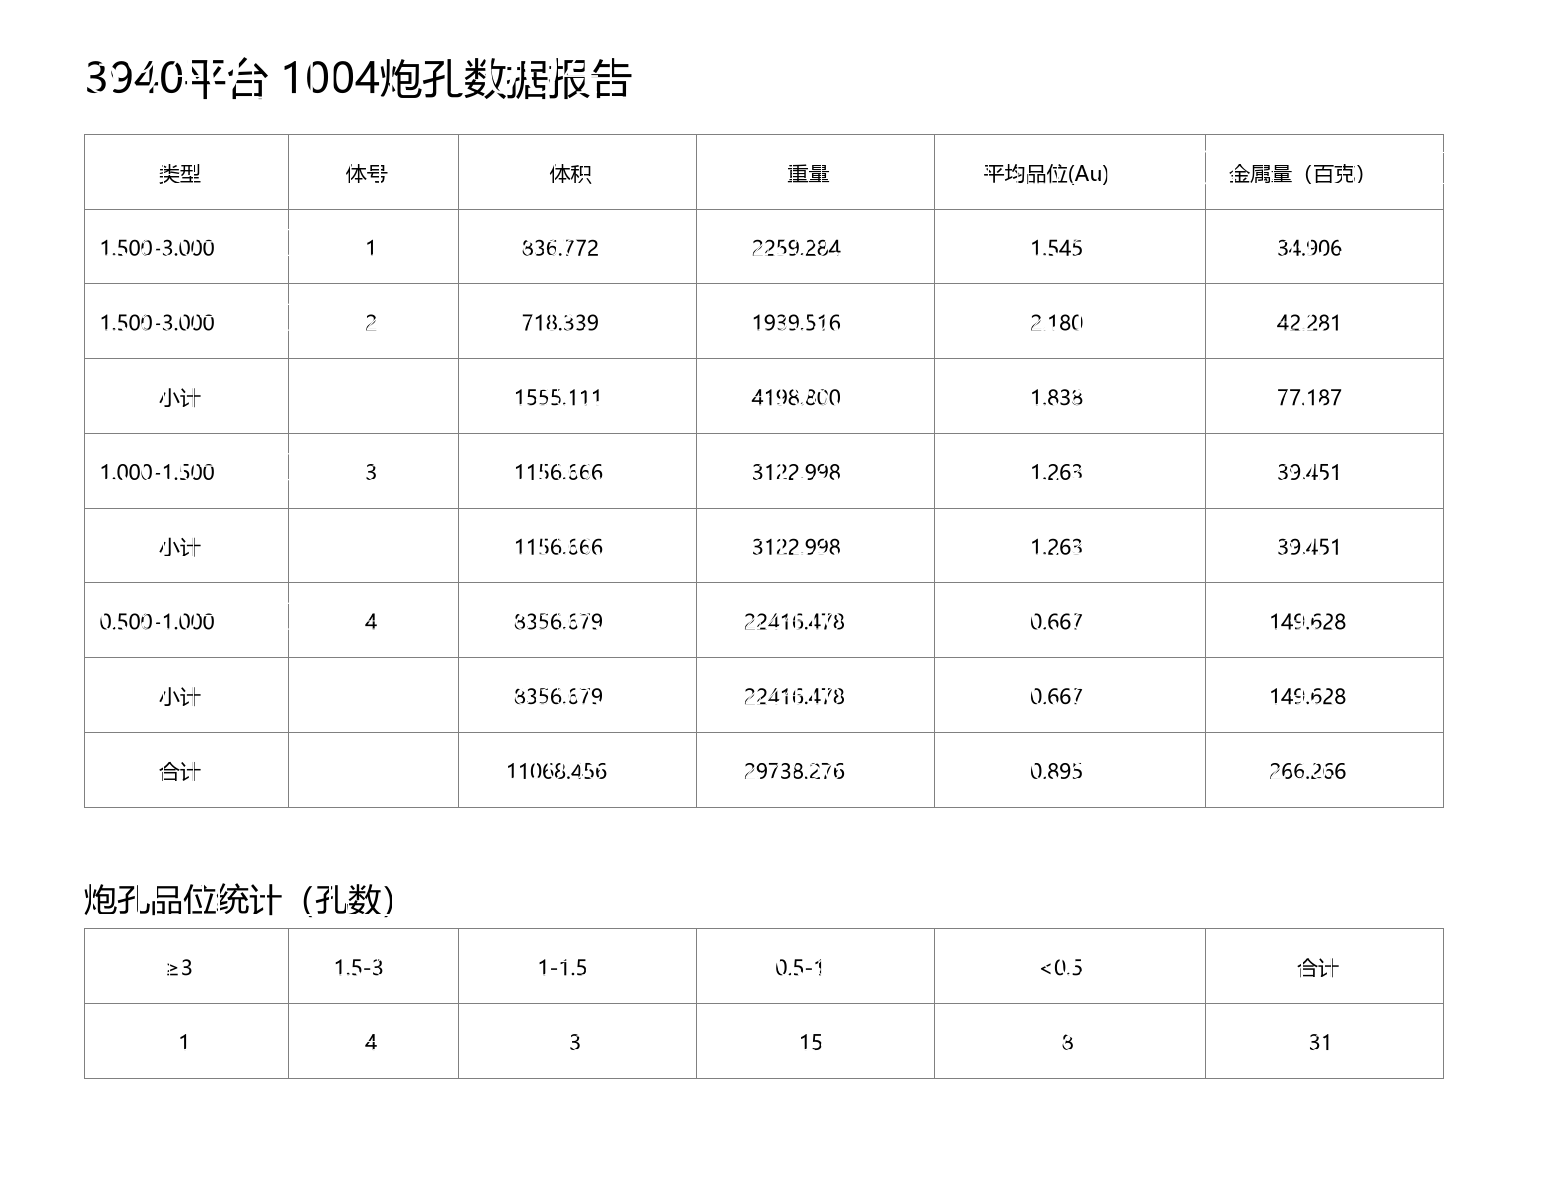
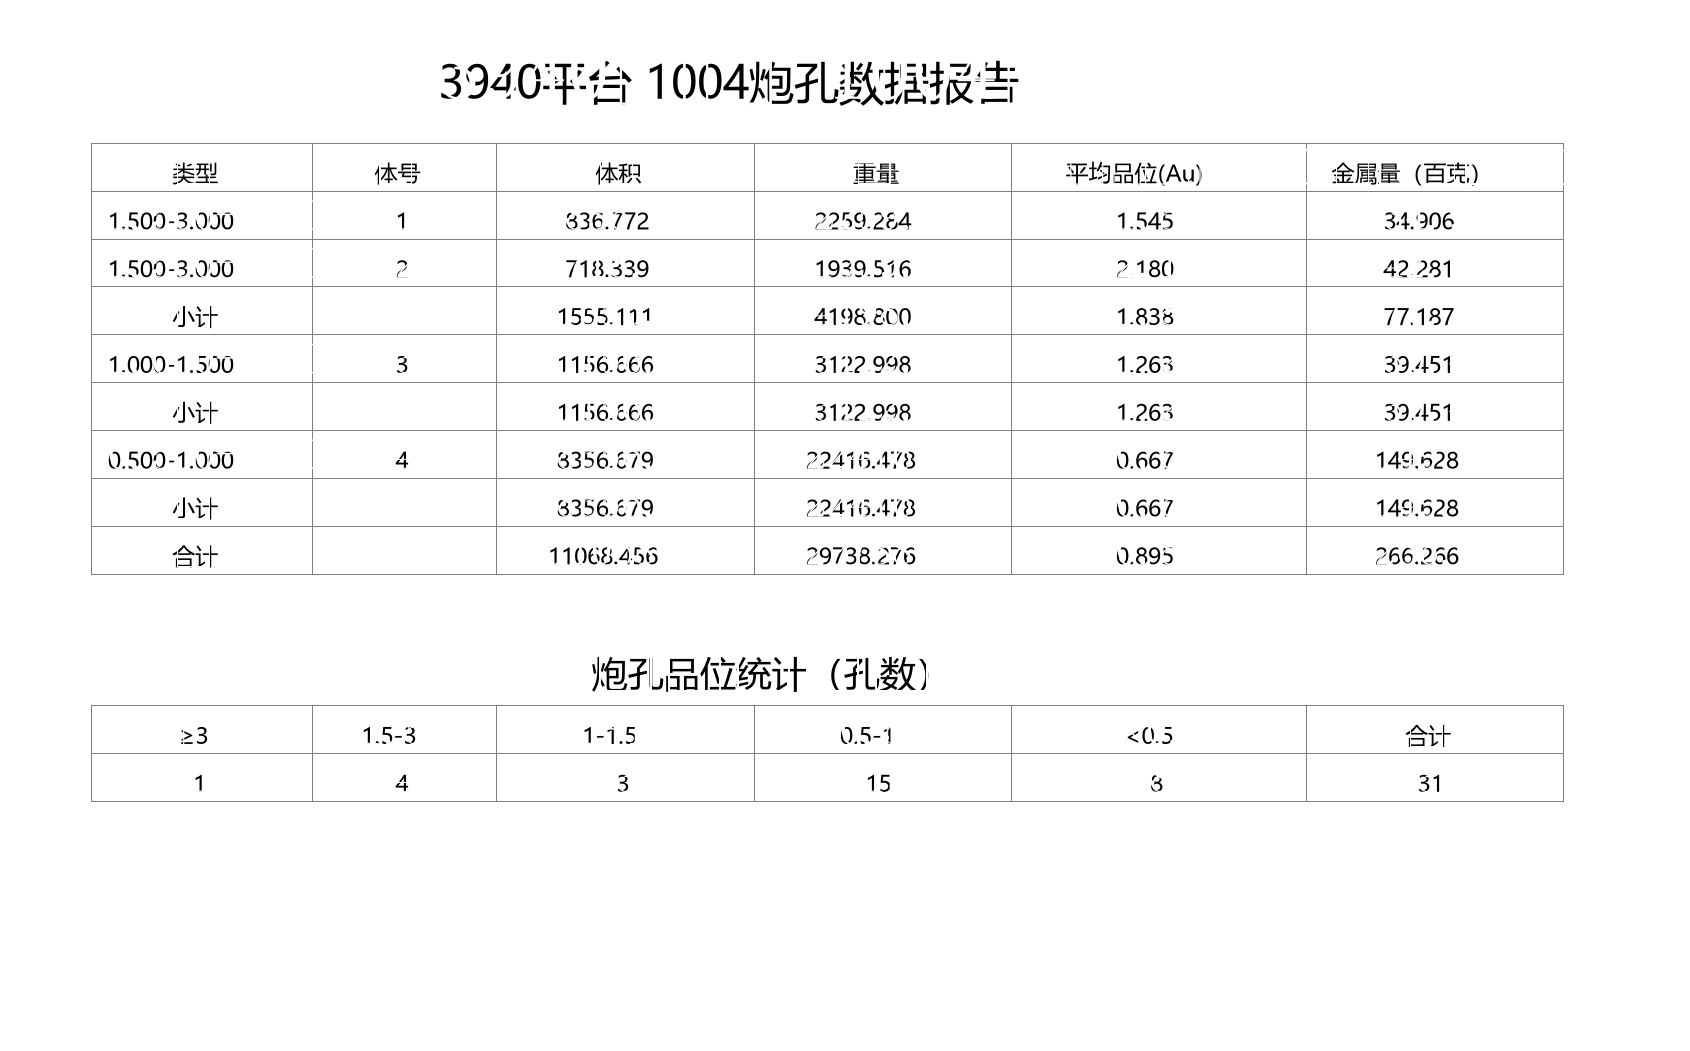
v1.7.1: report table in Excel style (thin borders, centered, compact rows)

diff --git a/3DMine二次圈矿工具_初步原型/core/deliver.py b/3DMine二次圈矿工具_初步原型/core/deliver.py
@@ -110,7 +110,7 @@ def write_report_xlsx(blocks, meta, path: Path, holes=None) -> None:
     for i, h in enumerate(head, 1):
         c = ws.cell(row=2, column=i, value=h)
         c.font = Font(bold=True)
-        c.alignment = Alignment(horizontal="center")
+        c.alignment = Alignment(horizontal="center", vertical="center")
         # 用户 2026-10-15：报告里**不要单元格底纹**（原来是浅蓝/浅灰）
         c.fill = PatternFill(fill_type=None)
 
@@ -179,6 +179,8 @@ def write_report_xlsx(blocks, meta, path: Path, holes=None) -> None:
     for row in ws.iter_rows(min_row=2, max_row=last_row, min_col=1, max_col=6):
         for cell in row:
             cell.border = border
+            # 用户 2026-10-19：报告表按 Excel 默认风格，所有文字居中
+            cell.alignment = Alignment(horizontal="center", vertical="center")
             if cell.column >= 3:
                 cell.number_format = "0.000"
     for col, w in zip("ABCDEF", (14, 8, 12, 12, 14, 14)):
@@ -387,7 +389,7 @@ BLANK_NOTE = "（缺工程，待取样验证后再进行施工）"
 
 # 报告表（矢量）：列宽合计 40 m，与原来贴图宽度一致；行高/字高按图面比例定
 TABLE_COL_W = (6.0, 5.0, 7.0, 7.0, 8.0, 7.0)
-TABLE_ROW_H = 2.2
+TABLE_ROW_H = 1.3
 TABLE_TEXT_H = 0.8
 TABLE_TITLE_H = 1.6
 
@@ -448,11 +450,13 @@ def _draw_report_table(msp, x0, y_top, rows, stat_rows, title):
         s = str(s)
         w = _text_width(s, h)
         msp.add_text(s, dxfattribs=dict(attrib, height=h)).set_placement(
-            (cx - w / 2.0, cy - h * 0.36))
+            (cx - w / 2.0, cy - h * 0.5))
 
-    # 标题
+    # 标题（Excel 默认风格：跨整表居中）
     msp.add_text(title, dxfattribs=dict(attrib, height=TABLE_TITLE_H)
-                 ).set_placement((x0, y_top - TABLE_TITLE_H))
+                 ).set_placement(
+                     (x0 + (total_w - _text_width(title, TABLE_TITLE_H)) / 2.0,
+                      y_top - TABLE_TITLE_H))
     y = y_top - TABLE_TITLE_H - 1.2
 
     # 主表
@@ -460,10 +464,10 @@ def _draw_report_table(msp, x0, y_top, rows, stat_rows, title):
     for i in range(n + 1):
         yy = y - i * TABLE_ROW_H
         msp.add_line((x0, yy), (x0 + total_w, yy),
-                     dxfattribs={"layer": "0", "color": 8, "lineweight": 25})
+                     dxfattribs={"layer": "0", "color": 8, "lineweight": 13})
     for xx in xs:
         msp.add_line((xx, y), (xx, y - n * TABLE_ROW_H),
-                     dxfattribs={"layer": "0", "color": 8, "lineweight": 25})
+                     dxfattribs={"layer": "0", "color": 8, "lineweight": 13})
     for i, row in enumerate(rows):
         cy = y - (i + 0.5) * TABLE_ROW_H
         h = TABLE_TEXT_H
@@ -476,18 +480,21 @@ def _draw_report_table(msp, x0, y_top, rows, stat_rows, title):
     if stat_rows:
         # 炮孔品位统计：小标题 + 两行（列宽与主表一致）
         y -= 1.8
-        msp.add_text("炮孔品位统计（孔数）",
-                     dxfattribs=dict(attrib, height=TABLE_TITLE_H * 0.8)
-                     ).set_placement((x0, y - TABLE_TITLE_H * 0.8))
+        sub = "炮孔品位统计（孔数）"
+        sub_h = TABLE_TITLE_H * 0.8
+        msp.add_text(sub, dxfattribs=dict(attrib, height=sub_h)
+                     ).set_placement(
+                         (x0 + (total_w - _text_width(sub, sub_h)) / 2.0,
+                          y - sub_h))
         y -= TABLE_TITLE_H * 0.8 + 0.5
         m = len(stat_rows)
         for i in range(m + 1):
             yy = y - i * TABLE_ROW_H
             msp.add_line((x0, yy), (x0 + total_w, yy),
-                         dxfattribs={"layer": "0", "color": 8, "lineweight": 25})
+                         dxfattribs={"layer": "0", "color": 8, "lineweight": 13})
         for xx in xs:
             msp.add_line((xx, y), (xx, y - m * TABLE_ROW_H),
-                         dxfattribs={"layer": "0", "color": 8, "lineweight": 25})
+                         dxfattribs={"layer": "0", "color": 8, "lineweight": 13})
         for i, row in enumerate(stat_rows):
             cy = y - (i + 0.5) * TABLE_ROW_H
             for j, val in enumerate(row):

diff --git a/3DMine二次圈矿工具_初步原型/_probe/publish_release.py b/3DMine二次圈矿工具_初步原型/_probe/publish_release.py
@@ -75,7 +75,8 @@ def main() -> int:
              "v1.4": "v1.4 —— 单日并入时一并复制二次圈矿矿块图",
              "v1.5": "v1.5 —— 未闭合 .3ds 也能出图 + 交付加 .xls 与分表",
              "v1.6": "v1.6 —— DXF→DWG 提速（accoreconsole，约 2 秒）",
-             "v1.7": "v1.7 —— 小片归属 / 标注引线从块中心 / 手机端矢量表格"}.get(
+             "v1.7": "v1.7 —— 小片归属 / 标注引线从块中心 / 手机端矢量表格",
+             "v1.7.1": "v1.7.1 —— 报告表改 Excel 默认风格：细边框、全部居中、行高压缩"}.get(
                  TAG, "%s —— 二次圈矿工具" % TAG)
     st, res = api("https://api.github.com/repos/%s/releases" % REPO, tok,
                   {"tag_name": TAG, "name": title,

diff --git a/3DMine二次圈矿工具_初步原型/client/gui.py b/3DMine二次圈矿工具_初步原型/client/gui.py
@@ -43,7 +43,7 @@ PROBE = ROOT / "_probe"
 PARAMS_REPORT = PROBE / "params_report.py"
 ACCEPT_ALL = PROBE / "accept_all.py"
 ACCEPT_REPORT = ROOT / "验收报告.md"
-VERSION = "v1.7"            # 界面上会显示——以后一眼就能看出跑的是哪版代码
+VERSION = "v1.7.1"          # 界面上会显示——以后一眼就能看出跑的是哪版代码
 EXCEL_TOOLS = ROOT / "excel_tools"          # 整合进来的"炮孔数据工具"（报告汇总 + 单日并入总表）
 EXCEL_MAIN = EXCEL_TOOLS / "main.py"
 PY = sys.executable

diff --git a/3DMine二次圈矿工具_初步原型/_probe/release_notes_v1_7_1.md b/3DMine二次圈矿工具_初步原型/_probe/release_notes_v1_7_1.md
@@ -1,0 +1,18 @@
+# v1.7.1 —— 报告表改为 Excel 默认风格
+
+用户反馈：插入 DWG 的炮孔数据报告表"行高有些高了"，要求改成 Excel 默认风格、所有文字居中。
+
+## 改动
+
+* **行高**：`2.2 m → 1.3 m`（约原来的 59%），主表与品位统计表同步；
+* **文字**：标题、表头、数据、小计、合计全部水平 + 垂直居中；
+  Excel 报告（.xlsx）的数据单元格也同步改成居中；
+* **边框**：细线（lineweight 13），灰色（色号 8），与 Excel 默认网格线的观感一致；
+* **标题**：报告表标题、 "炮孔品位统计（孔数）" 小标题都跨整表居中，不再左对齐。
+
+表格仍然是矢量 TEXT + LINE，不引用外部图片，手机 CAD 看图王可正常显示。
+
+## 验收
+
+`python _probe\accept_all.py --quick` 全绿；成果图实体自检里
+"报告表表头 6/6（矢量 TEXT）""矿块号不压报告表"等项通过。

diff --git a/3DMine二次圈矿工具_初步原型/README.md b/3DMine二次圈矿工具_初步原型/README.md
@@ -33,7 +33,7 @@
 3. **成果图实体自检**（`dxf_check.py`）：图名 / 炮孔十字（1 m、色 138）/ 引线（1.2 m、
    跟品位档色）/ 工程号（与数据库逐条一致）/ 品位字高 / 1 m 方格 / 网格小字 /
    矿块号（不重号、不压矿块与报告表、**引线从矿块主体中心出发**）/ 报告表（**矢量 TEXT + LINE**，
-   不引用外部图片，手机 CAD 也能看）；
+   不引用外部图片，手机 CAD 也能看；Excel 默认风格：细边框、全部居中、紧凑行高）；
 4. **精确模式自检**：人工在 3DMine 里画好的几段 .3ds 拼成矿界，与人工 1008 图 IoU 0.962。
 
 ## 怎么用

diff --git a/3DMine二次圈矿工具_初步原型/验收报告.md b/3DMine二次圈矿工具_初步原型/验收报告.md
@@ -1,7 +1,7 @@
 # 验收报告（自动生成）
 
-- 时间：2026-10-19 00:30:28
-- 代码版本：`3b9c0a3`
+- 时间：2026-10-19 11:04:08
+- 代码版本：`636939b`
 - 平台：3940、3960  模式：快检
 - 结论：**全部通过 ✓**
 
